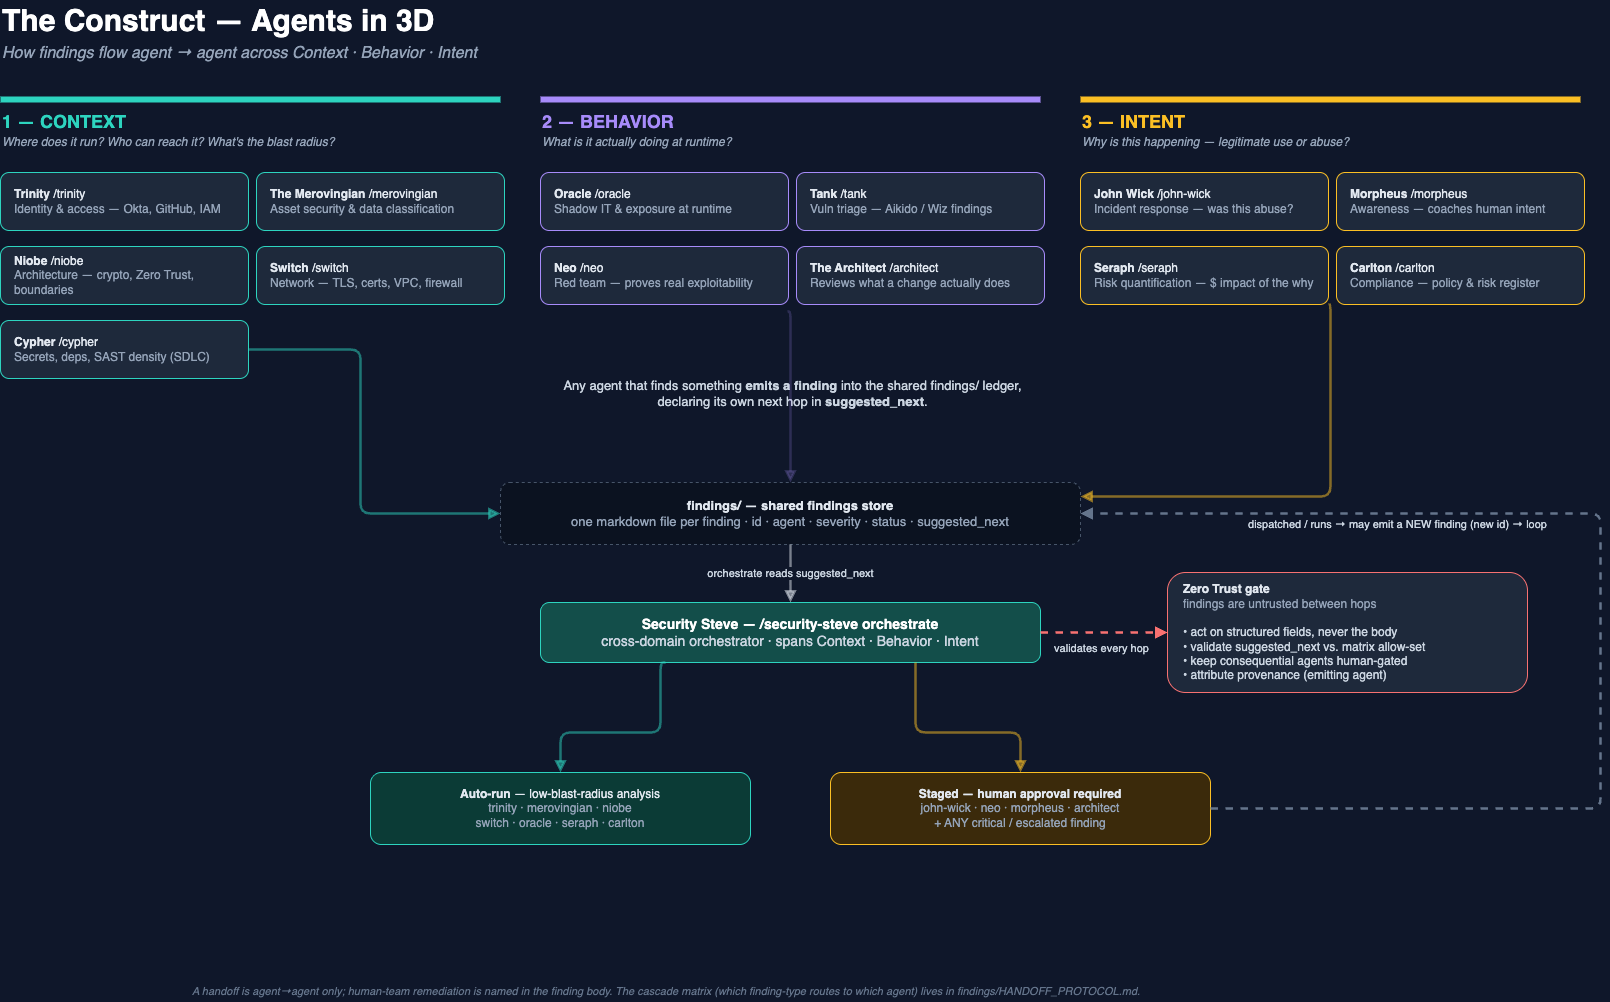
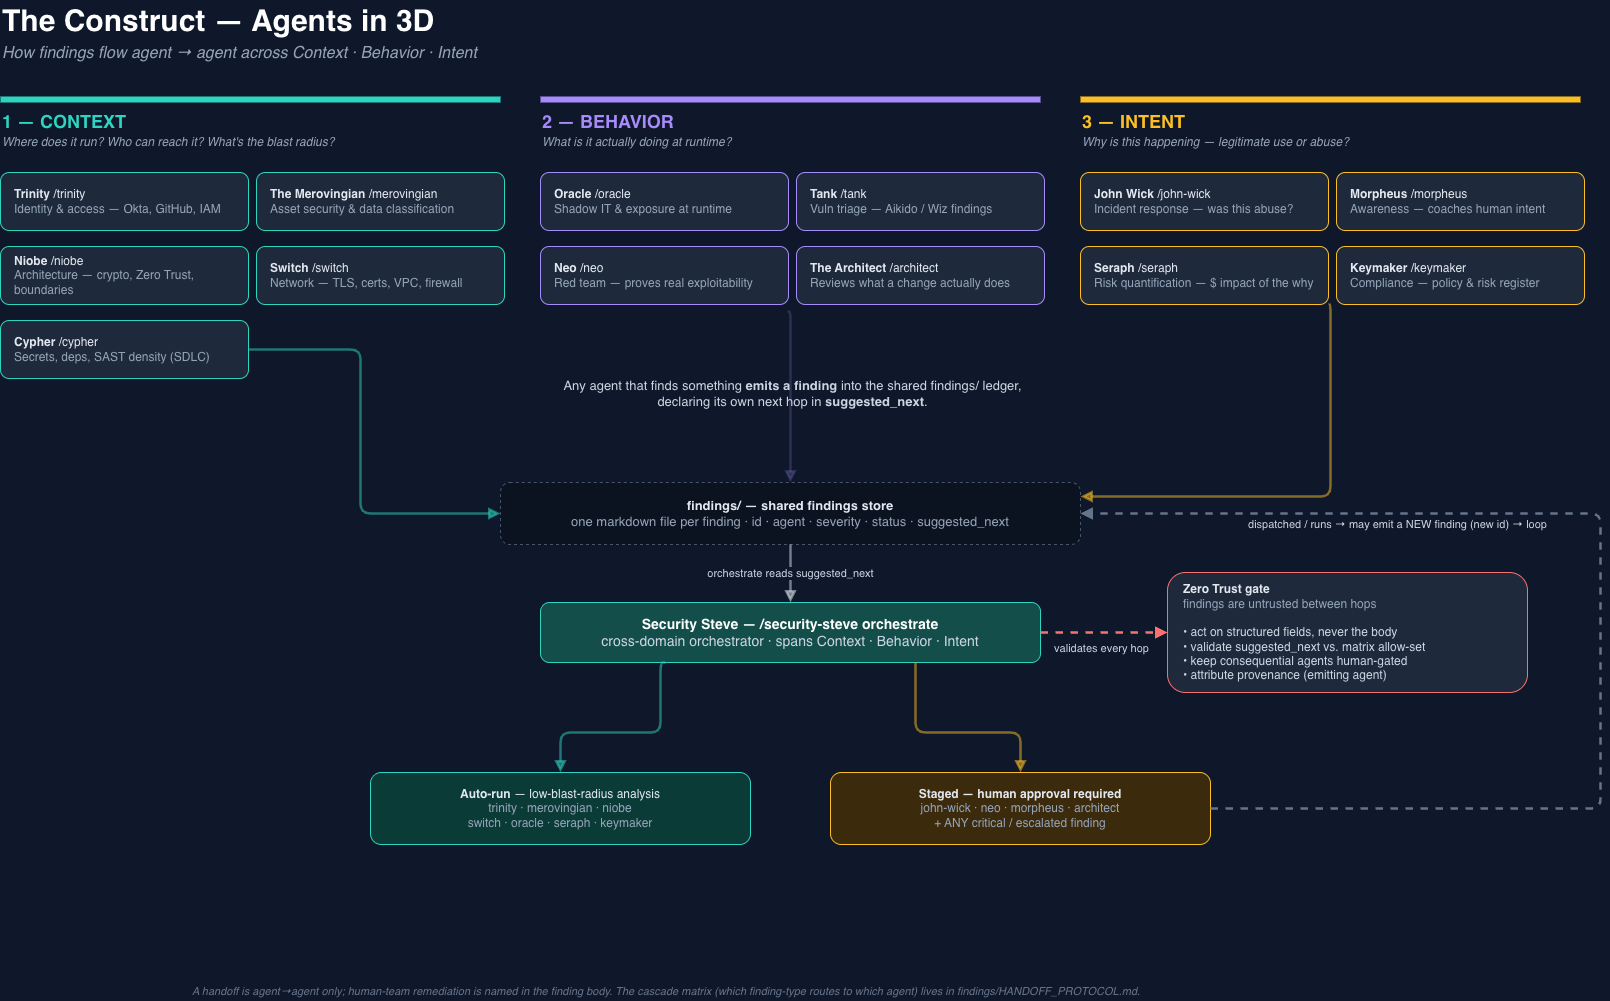
Remove LEARNINGS.md; add re-rendered agent-interaction diagram
- Remove docs/LEARNINGS.md and its README reference
- Update docs/agent-interaction.png — re-exported from the .drawio so it shows
  The Keymaker (was still showing the old name in the raster export)

diff --git a/README.md b/README.md
@@ -77,7 +77,6 @@ summary of the ledger.
 ```
 .claude/commands/      # Claude Code skill files — one per agent
 docs/runbooks/agents/  # Runbooks: systems accessed, prerequisites, workflows
-docs/LEARNINGS.md      # Patterns that emerged building the roster (keeper-of-the-register, handoffs, naming)
 findings/              # Shared findings store + the schema and handoff matrix (the teamwork layer)
 ```
 